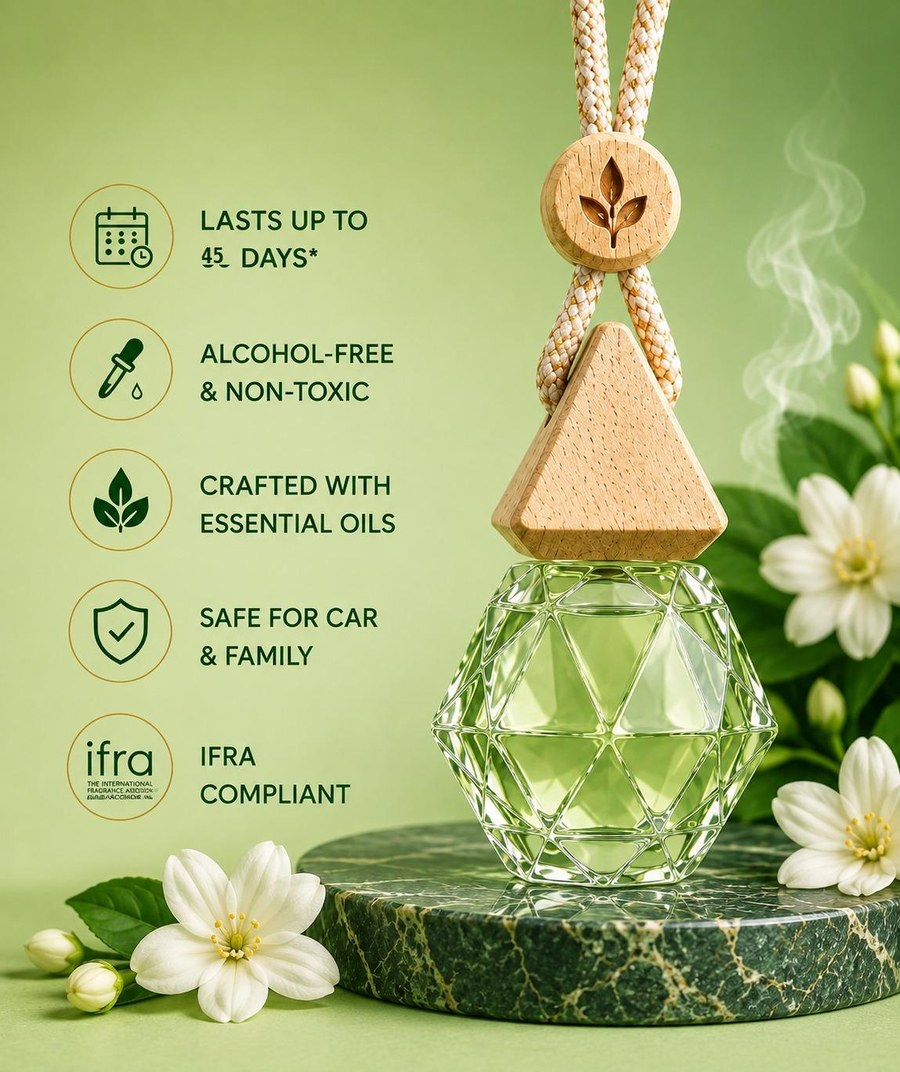
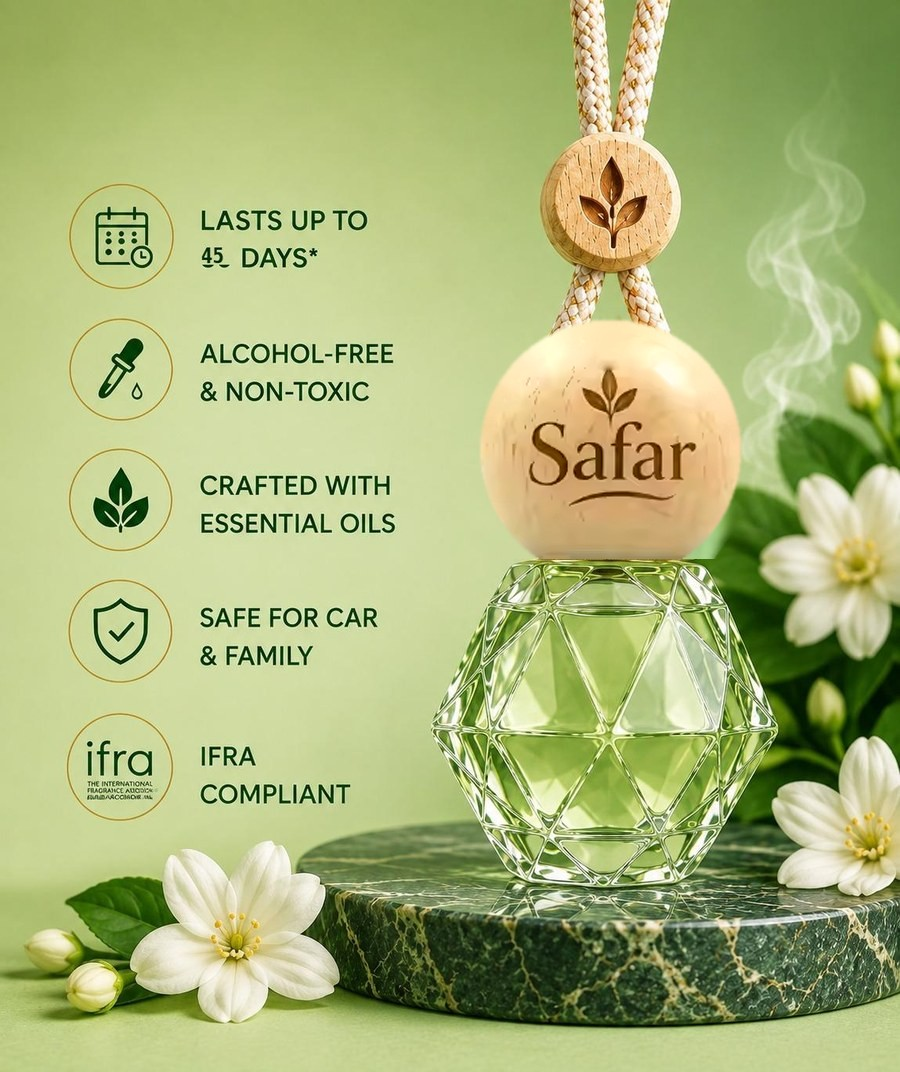
Show the round cap across the scent galleries; drop pictures that can't be converted
The round engraved "Safar" cap is fitted onto 19 more gallery pictures
(straight-on bottle shots, in-car shots, feature graphics and the two
"no added alcohol" badges). The ball is tinted to each scene's wood
colour and the background behind the old cap is rebuilt.

Twelve pictures are removed from the galleries and deleted, at the
owner's request, because the pyramid cap in them cannot be replaced
convincingly: box shots (the old cap is printed on the box), bottles
lying on fabric, the pyramid-cap close-up and the "how to use" panel.
They remain in git history if needed.

Every picture now on the site shows the round cap.

Claude-Session: https://claude.ai/code/session_01TKEkjiGb4uAVTpyi6YWbaZ

Changed region(s): [[0.5289, 0.2771, 0.84, 0.5233]]

diff --git a/musk.html b/musk.html
@@ -49,14 +49,9 @@
                   </div>
                   <div class="gallery-thumbs">
                     <img class="gallery-thumb active" src="assets/product-musk.jpg" data-full="assets/product-musk.jpg" alt="Musk packaging" />
-                    <img class="gallery-thumb" src="assets/product-musk-detail.jpg" data-full="assets/product-musk-detail.jpg" alt="Musk box and bottle studio shot" />
                     <img class="gallery-thumb" src="assets/product-musk-hero.jpg" data-full="assets/product-musk-hero.jpg" alt="Musk bottle with sandalwood and smoke" />
                     <img class="gallery-thumb" src="assets/product-musk-lifestyle.jpg" data-full="assets/product-musk-lifestyle.jpg" alt="Musk in the car on a mountain drive" />
-                    <img class="gallery-thumb" src="assets/product-musk-studio.jpg" data-full="assets/product-musk-studio.jpg" alt="Musk wooden cap macro detail" />
-                    <img class="gallery-thumb" src="assets/product-musk-box.jpg" data-full="assets/product-musk-box.jpg" alt="Musk box and bottle on blue velvet" />
-                    <img class="gallery-thumb" src="assets/product-musk-props.jpg" data-full="assets/product-musk-props.jpg" alt="Musk box and bottle with wood props" />
                     <img class="gallery-thumb" src="assets/product-musk-sunset.jpg" data-full="assets/product-musk-sunset.jpg" alt="Musk in the car at sunset" />
-                    <img class="gallery-thumb" src="assets/product-musk-howtouse.jpg" data-full="assets/product-musk-howtouse.jpg" alt="How to use SAFAR Musk" />
                     <img class="gallery-thumb" src="assets/product-musk-features.jpg" data-full="assets/product-musk-features.jpg" alt="SAFAR Musk features: lasts up to 45 days, alcohol-free, IFRA compliant" />
                   </div>
                 </div>

diff --git a/sandalwood.html b/sandalwood.html
@@ -49,8 +49,6 @@
                   </div>
                   <div class="gallery-thumbs">
                     <img class="gallery-thumb active" src="assets/product-sandalwood.jpg" data-full="assets/product-sandalwood.jpg" alt="Sandalwood packaging" />
-                    <img class="gallery-thumb" src="assets/product-sandalwood-closeup.jpg" data-full="assets/product-sandalwood-closeup.jpg" alt="Sandalwood bottle with sandalwood sticks" />
-                    <img class="gallery-thumb" src="assets/product-sandalwood-box.jpg" data-full="assets/product-sandalwood-box.jpg" alt="Sandalwood box and bottle" />
                     <img class="gallery-thumb" src="assets/product-sandalwood-sunset.jpg" data-full="assets/product-sandalwood-sunset.jpg" alt="Sandalwood in the car at sunset" />
                     <img class="gallery-thumb" src="assets/product-sandalwood-features.jpg" data-full="assets/product-sandalwood-features.jpg" alt="SAFAR Sandalwood features: lasts up to 45 days, alcohol-free, IFRA compliant" />
                     <img class="gallery-thumb" src="assets/product-sandalwood-trust.jpg" data-full="assets/product-sandalwood-trust.jpg" alt="Alcohol-free, mild fragrance, MSDS available" />

diff --git a/vanilla.html b/vanilla.html
@@ -49,8 +49,6 @@
                   </div>
                   <div class="gallery-thumbs">
                     <img class="gallery-thumb active" src="assets/product-vanilla.jpg" data-full="assets/product-vanilla.jpg" alt="Vanilla packaging" />
-                    <img class="gallery-thumb" src="assets/product-vanilla-closeup.jpg" data-full="assets/product-vanilla-closeup.jpg" alt="Vanilla bottle with vanilla pods and flowers" />
-                    <img class="gallery-thumb" src="assets/product-vanilla-box.jpg" data-full="assets/product-vanilla-box.jpg" alt="Vanilla box and bottle" />
                     <img class="gallery-thumb" src="assets/product-vanilla-sunset.jpg" data-full="assets/product-vanilla-sunset.jpg" alt="Vanilla in the car at sunset" />
                     <img class="gallery-thumb" src="assets/product-vanilla-podium.jpg" data-full="assets/product-vanilla-podium.jpg" alt="Vanilla bottle on marble podium" />
                     <img class="gallery-thumb" src="assets/product-vanilla-features.jpg" data-full="assets/product-vanilla-features.jpg" alt="SAFAR Vanilla features: lasts up to 45 days, alcohol-free, IFRA compliant" />

diff --git a/jasmine.html b/jasmine.html
@@ -49,7 +49,6 @@
                   </div>
                   <div class="gallery-thumbs">
                     <img class="gallery-thumb active" src="assets/product-jasmine.jpg" data-full="assets/product-jasmine.jpg" alt="Jasmine packaging" />
-                    <img class="gallery-thumb" src="assets/product-jasmine-green-closeup.jpg" data-full="assets/product-jasmine-green-closeup.jpg" alt="Jasmine bottle with jasmine flowers" />
                     <img class="gallery-thumb" src="assets/product-jasmine-green-hero.jpg" data-full="assets/product-jasmine-green-hero.jpg" alt="Jasmine bottle with jasmine bush" />
                     <img class="gallery-thumb" src="assets/product-jasmine-green-sunset.jpg" data-full="assets/product-jasmine-green-sunset.jpg" alt="Jasmine in the car at sunset" />
                     <img class="gallery-thumb" src="assets/product-jasmine-green-features.jpg" data-full="assets/product-jasmine-green-features.jpg" alt="SAFAR Jasmine features: lasts up to 45 days, alcohol-free, IFRA compliant" />

diff --git a/lavender.html b/lavender.html
@@ -49,8 +49,6 @@
                   </div>
                   <div class="gallery-thumbs">
                     <img class="gallery-thumb active" src="assets/product-lavender-cover.jpg" data-full="assets/product-lavender-cover.jpg" alt="Lavender packaging cover" />
-                    <img class="gallery-thumb" src="assets/product-lavender.jpg" data-full="assets/product-lavender.jpg" alt="Lavender bottle close-up" />
-                    <img class="gallery-thumb" src="assets/product-lavender-detail.jpg" data-full="assets/product-lavender-detail.jpg" alt="Lavender packaging with box" />
                     <img class="gallery-thumb" src="assets/product-lavender-lifestyle.jpg" data-full="assets/product-lavender-lifestyle.jpg" alt="Lavender in the car at sunset" />
                     <img class="gallery-thumb" src="assets/product-trust-no-alcohol.jpg" data-full="assets/product-trust-no-alcohol.jpg" alt="Alcohol-free, mild fragrance, MSDS available" />
                   </div>
